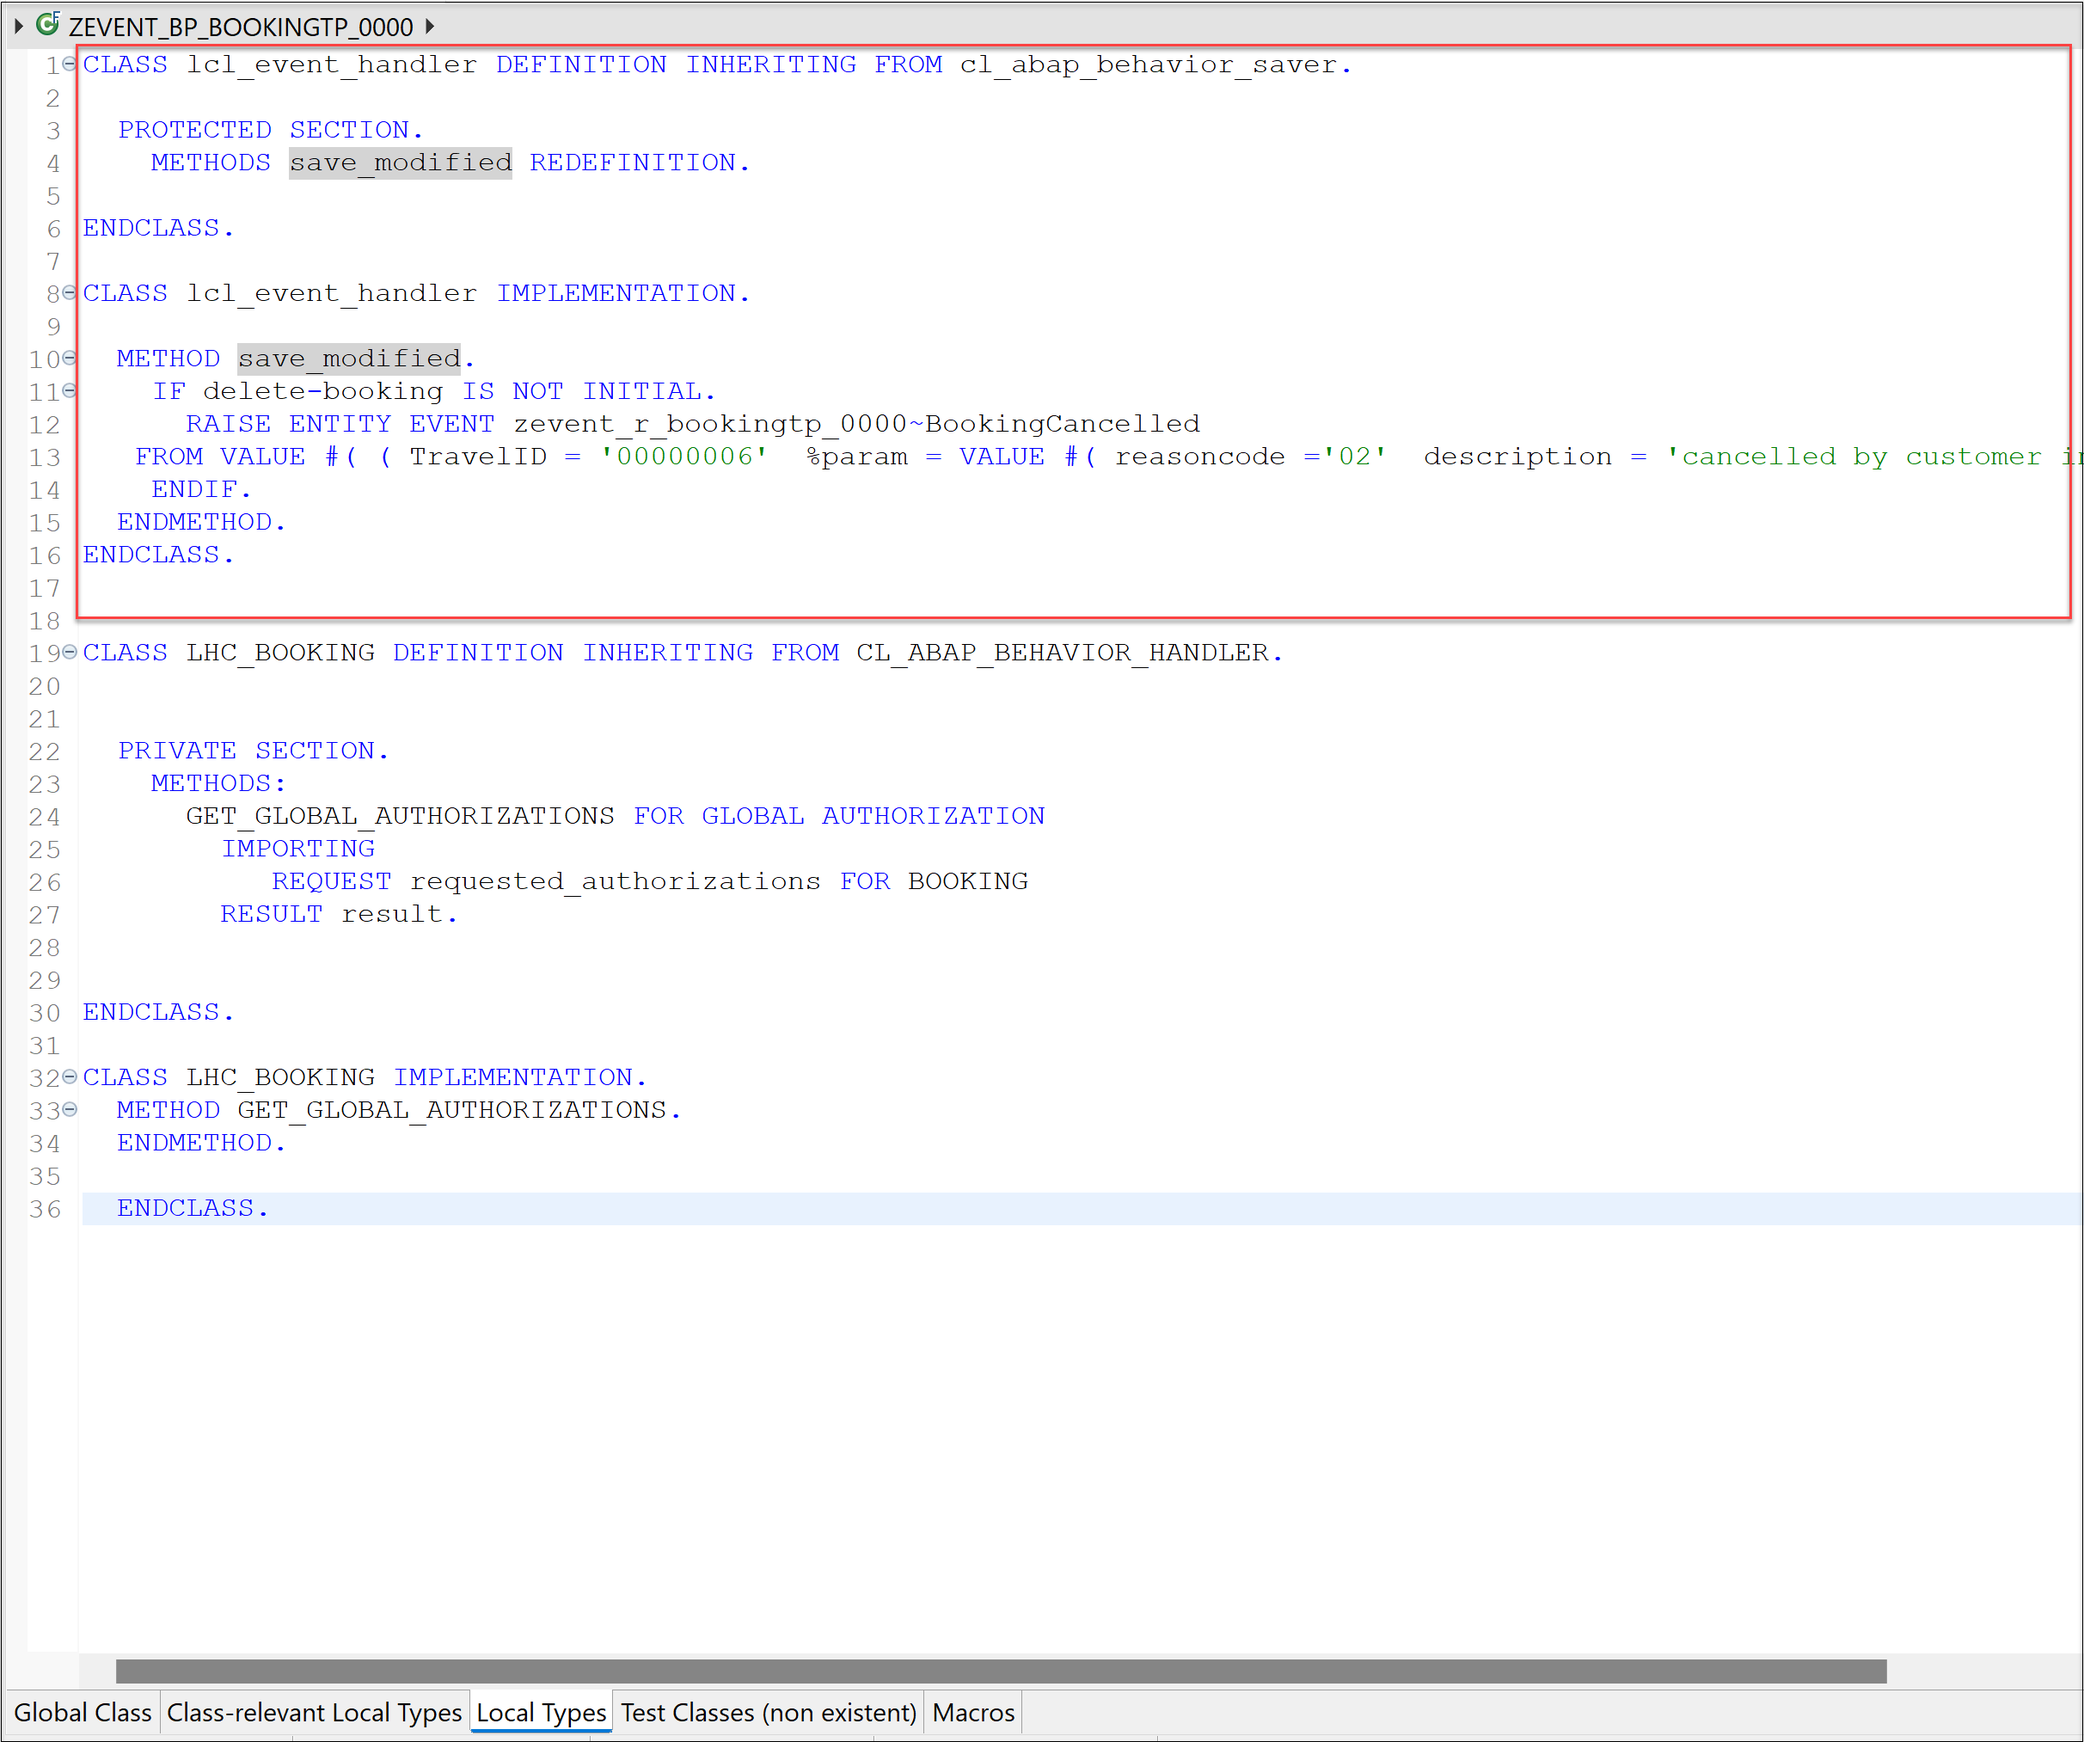
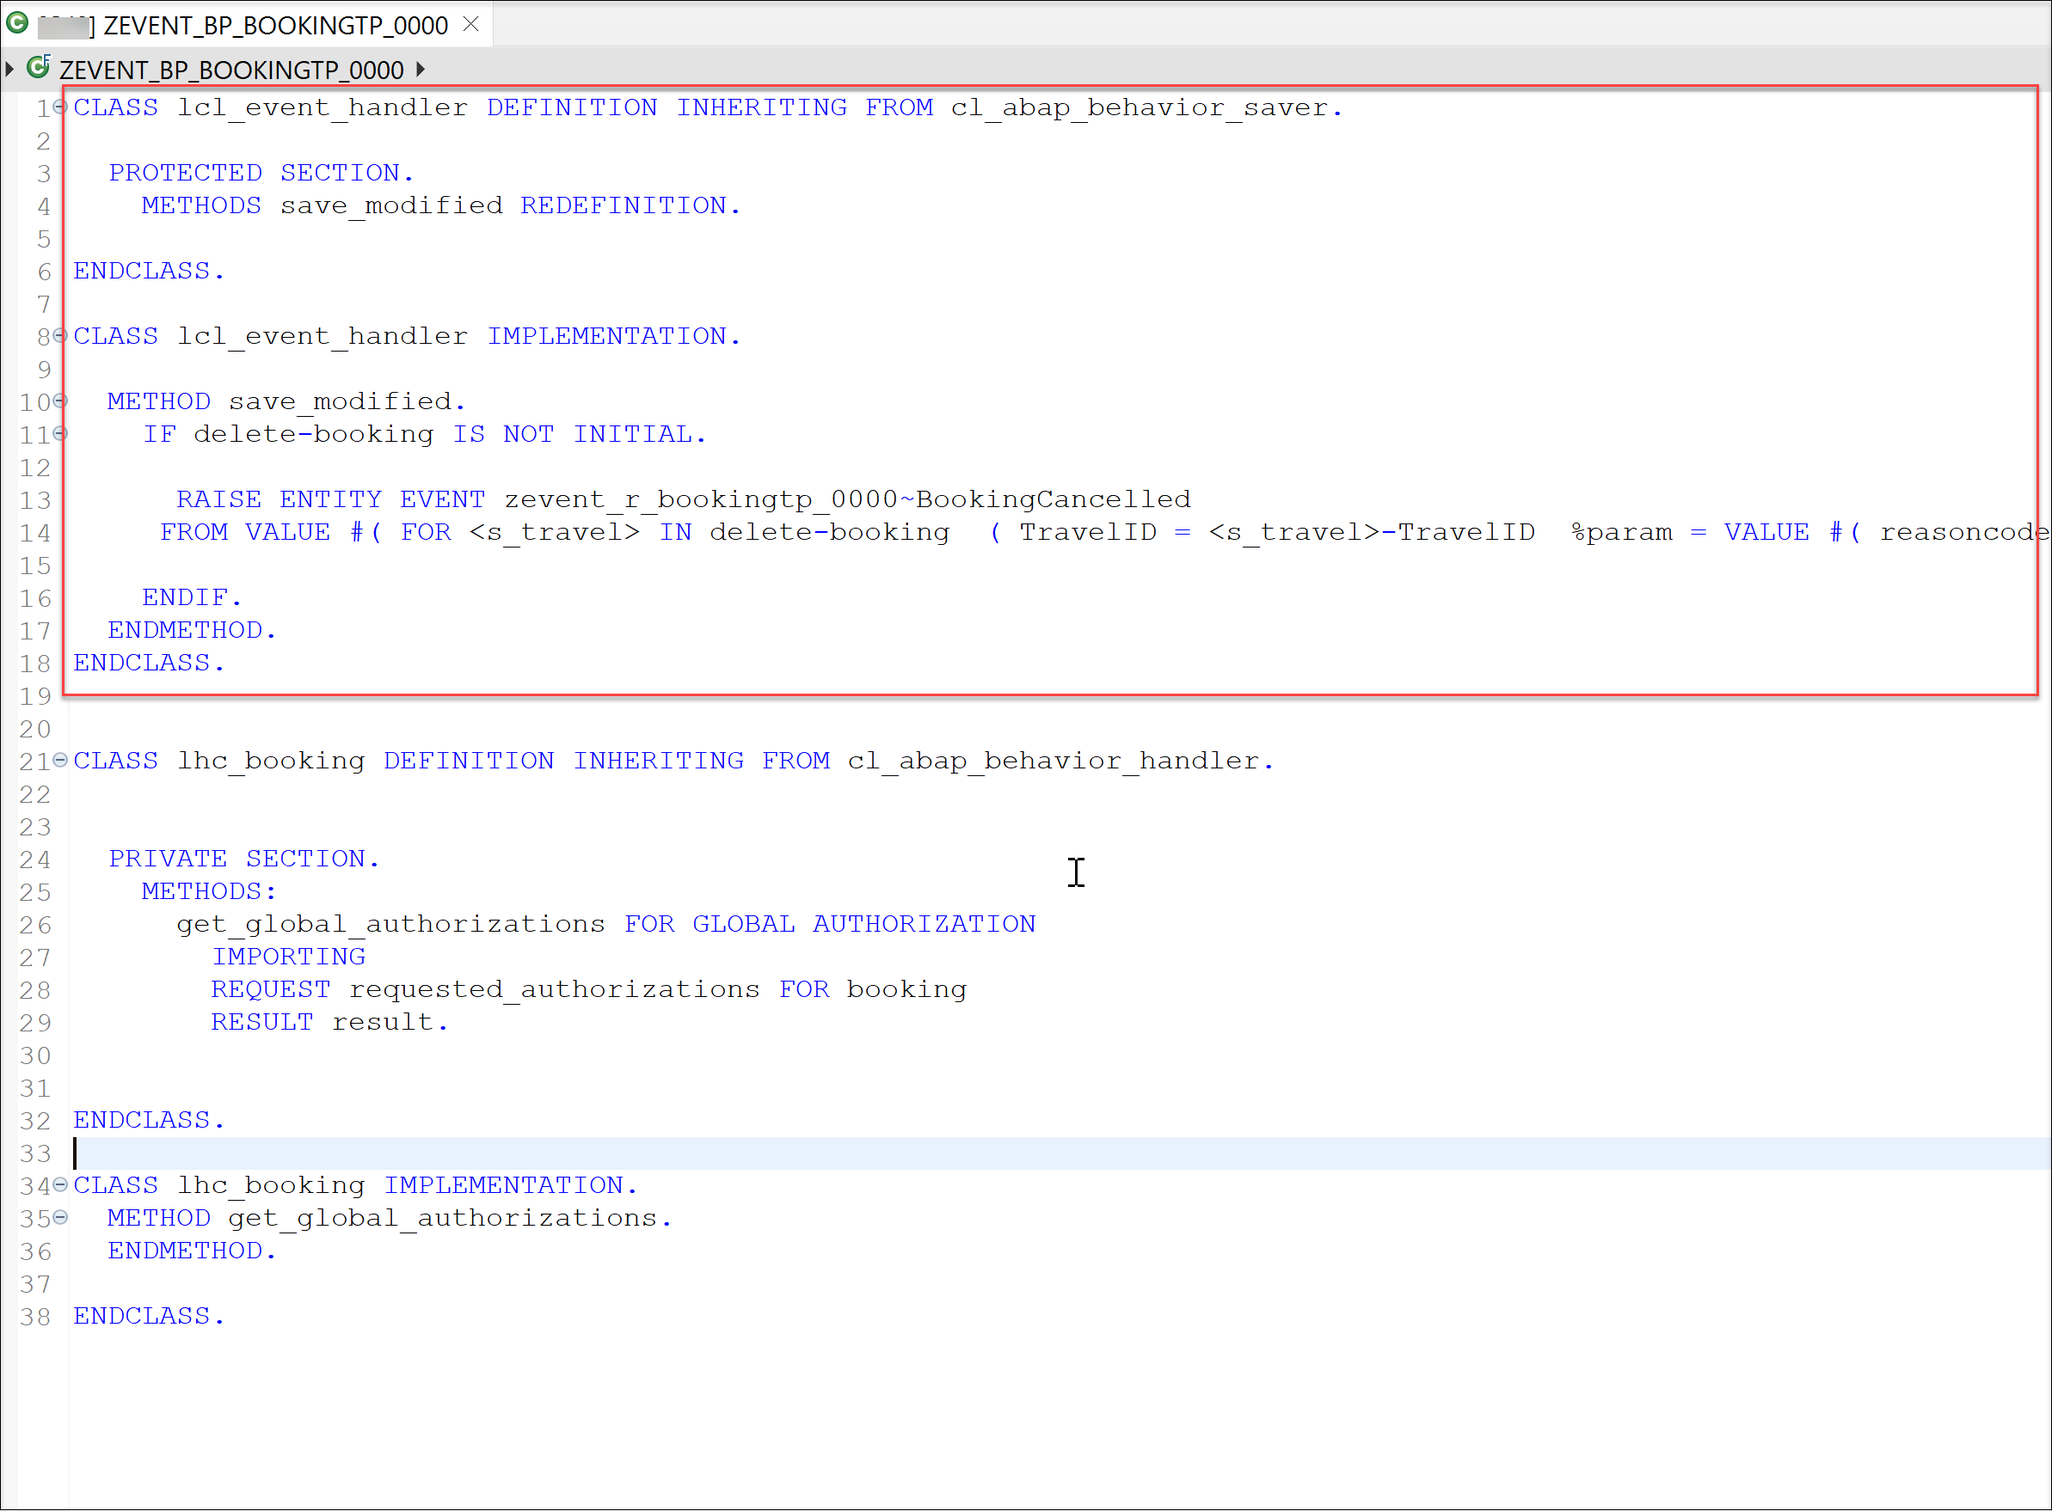
edit errors

diff --git a/tutorials/abap-environment-event-processing-s4h-onpremise/abap-environment-event-processing-s4h-onpremise.md b/tutorials/abap-environment-event-processing-s4h-onpremise/abap-environment-event-processing-s4h-onpremise.md
@@ -28,7 +28,7 @@ The ABAP RESTful Application Programming Model (RAP) now supports the native con
 
 
 ### Download event specification file 
-An Event Consumption Model is a set of ABAP artifacts which allows you to receive events from external applications and to consume them within your business application. You can have a wide range of event producers. So, you need to know how the emitted event exactly looks like. To this aim, you need a file which contains the metadata of this event like how the payload looks like, what kind of types are there and so on. This is all specified in the event specification file, in this case, AsyncAPI specification, which is supported by SAP and can be downloaded from SAP API Business Hub in JSON format. For this aim, you need to download an event specification for the event **business partner** from the API hub.
+An Event Consumption Model is a set of ABAP artifacts which allows you to receive events from external applications and to consume them within your business application. You can have a wide range of event producers. So, you need to know how the emitted event exactly looks like. To this aim, you need a file which contains the metadata of this event like how the payload looks like, what kind of types are there and so on. This is all specified in the event specification file, in this case, `AsyncAPI` specification, which is supported by SAP and can be downloaded from SAP API Business Hub in JSON format. For this aim, you need to download an event specification for the event **business partner** from the API hub.
     
 1. Login to [SAP Business Hub] (https://api.sap.com/) and choose **SAP S/4HANA**. 
 
@@ -199,7 +199,7 @@ A channel represents a single connection to a service instance of the SAP Ev
 
     ![new](5-2.png)
 
-  3. Enter the following name and description and replace all **####** with your number, eneter the service key of your Event Mesh instance into the corresponding field and press save icon.
+  3. Enter the following name and description and replace all **####** with your number, enter the service key of your Event Mesh instance into the corresponding field and press save icon.
 
     - Name:`ZEVENT_CHANNEL_####`
     - Description: `New Channel ####`
@@ -248,7 +248,7 @@ After creating a channel, you can decide which events should be listed on this c
 
   1. You need to create a queue for your Event Mesh instance. How to get access to the SAP Event Mesh and creating a queue is already explained in this [blog post] (https://blogs.sap.com/2022/08/19/an-introduction-to-enterprise-event-enablement-for-sap-btp-abap-environment/) in details.. For more information about how to create a queue see also this [link] (https://developers.sap.com/tutorials/cp-enterprisemessaging-queue-queuesubscription.html)
 
-  2. The second step of the event consumption configuration is the creation of queue subscriptions for the channel. Back to your On-Premise system. In the channel config UI click **Subscriptions** to start configuring the queue subscriptions for the event consumption. Alternatively, you can run `/n/IWXBE/SUBSCRIPTION`. 
+  2. The second step of the event consumption configuration is the creation of queue subscriptions for the channel. Back to your On-Premise system. In the channel configuration UI click **Subscriptions** to start configuring the queue subscriptions for the event consumption. Alternatively, you can run `/n/IWXBE/SUBSCRIPTION`. 
 
     ![subs](7-1.png)
 

diff --git a/tutorials/abap-environment-create-s4hana-rap-business-events/abap-environment-create-s4hana-rap-business-events.md b/tutorials/abap-environment-create-s4hana-rap-business-events/abap-environment-create-s4hana-rap-business-events.md
@@ -18,7 +18,7 @@ author_profile: https://github.com/niloofar-flothkoetter
 
 ## You will learn
   - How to create Business Events with RAP in an On-Premise system
-  - How to set up a channel to connect to SAP Event Mesh
+  - How to set up a channel to connect to SAP Event Mesh 
 
 ## Intro
 >Always replace `####` with your initials or group number.
@@ -48,7 +48,7 @@ To produce and raise an event you need first to define your RAP Business Object 
 
     ![database](1-3.png)
 
-  4. Replace the default code with the code snippet provided below and replace all occurences of the placeholder `####` with your group ID using the **Replace All** function `Ctrl+F`.
+  4. Replace the default code with the code snippet provided below and replace all placeholder `####` with your group ID using the **Replace All** function `Ctrl+F`.
 
 
     ```ZBOOKING_####
@@ -252,7 +252,7 @@ The generated business service will be transactional, draft-enabled, and enriche
 
 ### Create an Event in Behaviour Definition
 
-  1. You need to create an event which is raised when a booking flight is cancelled. For this, open `ZEVENT_BP_BOOKINGTP_####` and add a new event to the business object. The event name is BookingCancelled.
+  1. You need to create an event which is raised when a booking flight is cancelled. For this, open `ZEVENT_BP_BOOKINGTP_####` and add a new event to the business object. The event name is `BookingCancelled`.
 
     ```
       event BookingCancelled parameter ZEVENT_D_BOOKING_CANCEL_####;
@@ -344,8 +344,8 @@ Now create the event binding for your newly created business event. This event b
 
         METHOD save_modified.
             IF delete-booking IS NOT INITIAL.
-            RAISE ENTITY EVENT zevent_r_bookingtp_####~BookingCancelled
-        FROM VALUE #( ( TravelID = '00000006'  %param = VALUE #( reasoncode ='02'  description = 'cancelled by customer in OP' ) ) ).
+           RAISE ENTITY EVENT zevent_r_bookingtp_####~BookingCancelled
+         FROM VALUE #( FOR <s_travel> IN delete-booking  ( TravelID = <s_travel>-TravelID  %param = VALUE #( reasoncode ='02'  description = 'cancelled by customer' ) ) ).
             ENDIF.
         ENDMETHOD.
         ENDCLASS.
@@ -406,7 +406,7 @@ After creating a channel, you can decide which events should be listed on this c
 
 In the SAP Event Mesh system, create a queue for the selected instance and subscribe it to your topic. For more information on how to create a queue, check [ this ] (https://blogs.sap.com/2022/08/19/an-introduction-to-enterprise-event-enablement-for-sap-btp-abap-environment/) blog post. 
 
-The structure of the topic should be like: your event mesh instance namespace/ce/the event type you are generated and are subscriebed to: `zevent####/booking/delete/*`.
+The structure of the topic should be like: your event mesh instance `namespace/ce/the event type you are generated` and are subscribed to: `zevent####/booking/delete/*`.
 
 The Topic will look like: `PmEvnt/PmEvnt.sap/Demo/ce/zevent####/booking/Delete/*`
 
@@ -425,7 +425,7 @@ After you created a queue for the selected instance in the SAP Event Mesh system
 
     ![delete](10-3.png)
 
-3. Back to your queue, hier you can see that a message is in your queue.
+3. Back to your queue, here you can see that a message is in your queue.
 
     ![message](10-4.png)
 
